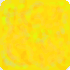
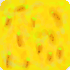
небольшие исправлия, убрал лишнее

diff --git a/main.py b/main.py
@@ -22,11 +22,7 @@ class Board:
         self.cell_size = cell_size
 
     def render(self, screen):
-        for i in range(self.width):
-            for j in range(self.height):
-                pygame.draw.rect(screen, (255, 255, 255),
-                                 (self.left + i * self.cell_size, self.top + j * self.cell_size,
-                                  self.cell_size, self.cell_size), 1)
+        pass
 
     def on_click(self, mouse_pos):
         pass
@@ -52,7 +48,7 @@ class Sp(pygame.sprite.Sprite):
         self.rect = self.image.get_rect()
         all_sprites.add(self)
 
-    def load_image(self, colorkey = None):
+    def load_image(self, colorkey=None):
         fullname = os.path.join('data', self.name)
         # если файл не существует, то выходим
         if not os.path.isfile(fullname):
@@ -74,10 +70,11 @@ class main_board(Board):
         super().__init__(width, height, left, top, cell_size)
         with open(f'data/{f_name}', encoding="utf8") as csvfile:
             reader = csv.reader(csvfile, delimiter=';', quotechar='"')
-            map1 = list(reader)
+            map1 = list(reader) # импрот карты из csv файла
             map1[0][0] = map1[0][0][-1:]
             self.map1 = map1
-
+            self.map_mas = [[None] * (self.width) for i in range(self.height)]
+            self.map_sp = pygame.sprite.Group()
 
     def on_click(self, cell):
         '''self.board[cell[0]][cell[1]] = (self.board[cell[0]][cell[1]] + 1) % 2'''
@@ -94,17 +91,15 @@ class main_board(Board):
                                                                        self.cell_size), 1)'''
 
     def first_render(self, screen):
-        self.map_sp = [[None] * (self.width) for i in range(self.height)]
         for y in range(self.height):
             for x in range(self.width):
                 n = self.map1[y][x]
-                if int(n) > 4:
+                if int(n) > 4: #если подвижый элемент, нарисуй землю
                     n = '0'
-                self.map_sp[y][x] = Sp(f'{n}.png')
-                self.map_sp[y][x].rect.left = self.left + x * self.cell_size
-                self.map_sp[y][x].rect.top = self.top + y * self.cell_size
-
-
+                self.map_mas[y][x] = Sp(f'{n}.png') #создание спрайта с номером из csv-карты
+                self.map_mas[y][x].rect.left = self.left + x * self.cell_size
+                self.map_mas[y][x].rect.top = self.top + y * self.cell_size
+                self.map_sp.add(self.map_mas[y][x])
 
     def next_move(self):
         '''tmp_board = copy.deepcopy(self.board)
@@ -124,30 +119,27 @@ class main_board(Board):
         self.board = copy.deepcopy(tmp_board)'''
 
 
-
 def main():
     pygame.init()
-    pygame.display.set_caption('игра в жизнь')
-    size = width, height = 1920*3/4, 1080*3/4
+    pygame.display.set_caption('игра')
+    size = width, height = 1920 * 3 / 4, 1080 * 3 / 4
     screen = pygame.display.set_mode(size)
     board = main_board(11, 11, 100, 10, 70, 'map1.csv')
     board.set_view(300, 10, 70)
+    board.first_render(screen)
     running = True
     time_on = False
     speed = 15
     ticks = 0
     clock = pygame.time.Clock()
-    main_board.map_sp = pygame.sprite.Group()
     while running:
         for event in pygame.event.get():
             if event.type == pygame.QUIT:
                 running = False
-
         screen.fill((0, 0, 0))
-        pygame.draw.rect(screen, "#3b1604", (board.left, board.top, board.cell_size * board.width, board.cell_size * board.height))
-        board.first_render(screen)
-        main_board.map_sp.draw(screen)
-        all_sprites.draw(screen)
+        pygame.draw.rect(screen, "#d55800", (
+            board.left, board.top, board.cell_size * board.width, board.cell_size * board.height))  # подложка
+        board.map_sp.draw(screen) # создание карты
         if ticks >= speed:
             if time_on:
                 board.next_move()
